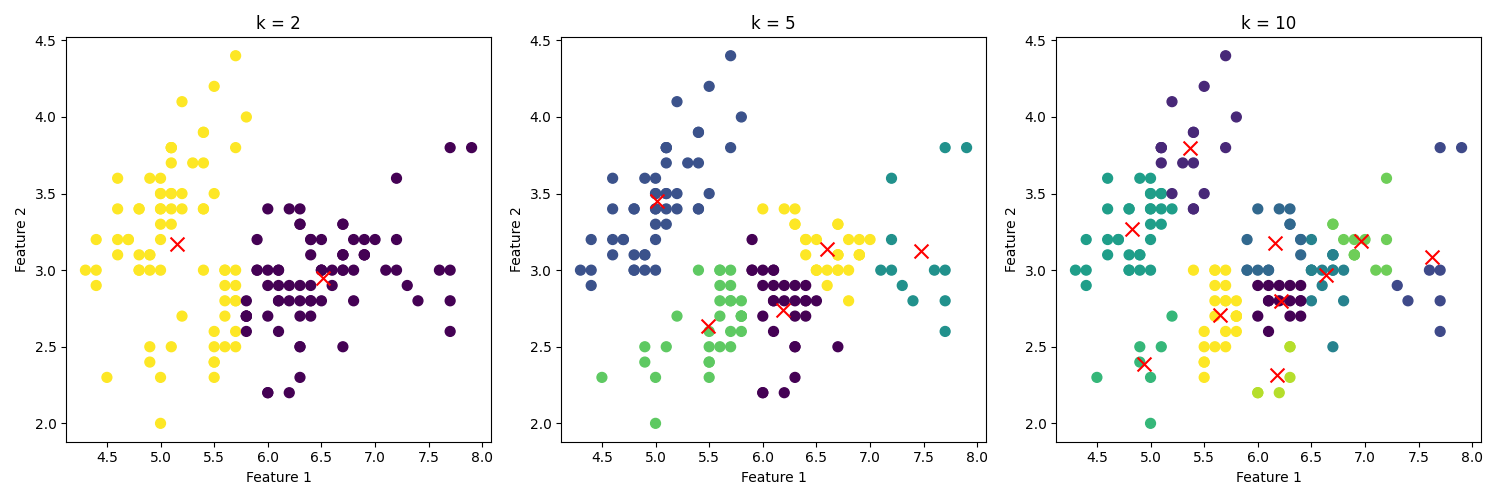
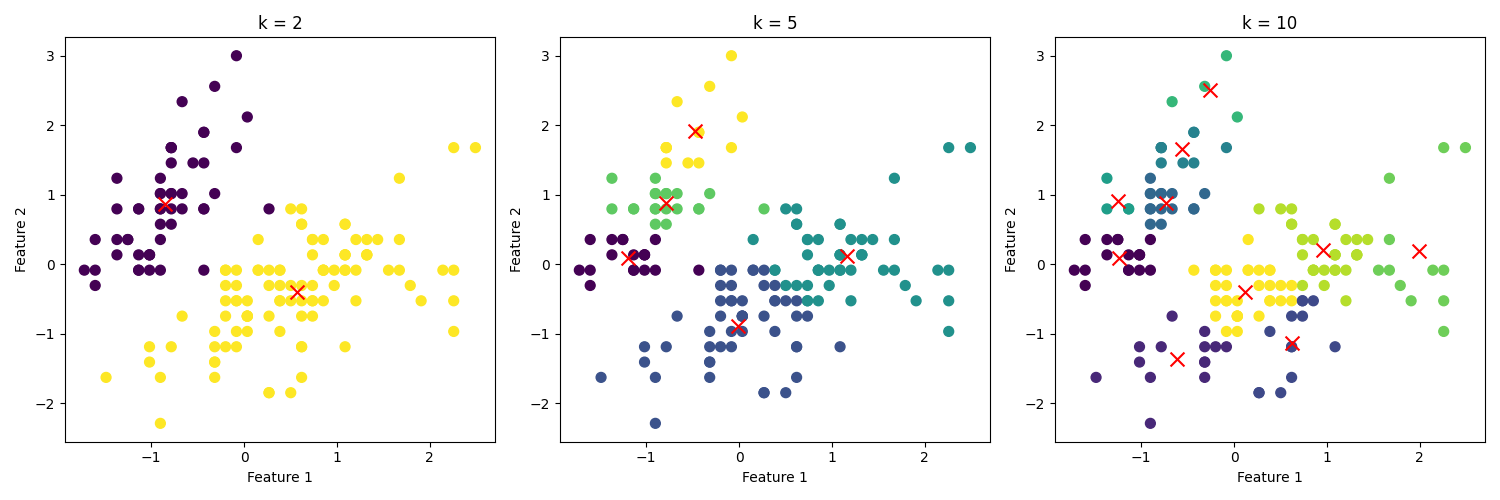
final development

diff --git a/question6/question6.py b/question6/question6.py
@@ -60,9 +60,7 @@ class KMeans:
             self.centroids = new_centroids
         self.inertia = self.compute_inertia(X, self.labels, self.centroids)
 
-# Load Iris dataset and use only the first two features
-iris = load_iris()
-X = iris.data[:, :2]
+X = np.concatenate((x_train, x_val, x_test))
 
 # Run K-Means for k = 2, 5, 10 with different initializations
 k_values = [2, 5, 10]
